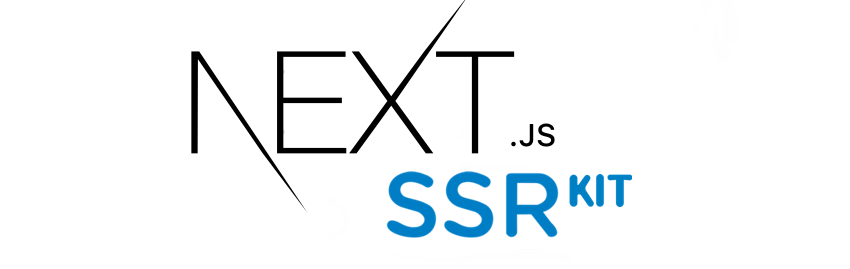
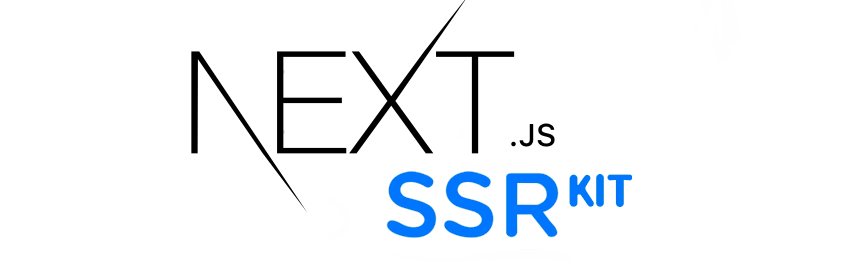
[skip-ci] Adjust button colors

Changed region(s): [[0.4588, 0.6245, 0.7647, 0.8922]]

diff --git a/src/components/Layout/Button/index.tsx b/src/components/Layout/Button/index.tsx
@@ -30,14 +30,14 @@ const Button = styled(StyledButton)`
     return "#ccc";
   }};
   background: ${({ danger, primary }) => {
-    if (primary) return "#03a9f3";
-    if (danger) return "#f0506e";
+    if (primary) return "#0076ff";
+    if (danger) return "#e60f00";
     return "#000";
   }};
   border: 1px solid
     ${({ danger, primary }) => {
-      if (primary) return "#03a9f3";
-      if (danger) return "#f0506e";
+      if (primary) return "#0076ff";
+      if (danger) return "#e60f00";
       return "transparent";
     }};
   font-size: 16px;
@@ -50,8 +50,8 @@ const Button = styled(StyledButton)`
   border-radius: 4px;
   box-shadow: 0 2px 7px 0
     ${({ danger, primary }) => {
-      if (primary) return "rgba(3, 169, 243, 0.39);";
-      if (danger) return "rgba(239, 80, 110, 0.39);";
+      if (primary) return "rgba(3, 77, 243, 0.39);";
+      if (danger) return "rgba(239, 52, 52, 0.39);";
       return "rgba(130, 130, 130, 0.19);";
     }};
 
@@ -59,14 +59,14 @@ const Button = styled(StyledButton)`
     text-decoration: none;
     color: #fff;
     background: ${({ danger, primary }) => {
-      if (primary) return "#028ddf";
-      if (danger) return "#d93252";
+      if (primary) return "#006ae6";
+      if (danger) return "#d71002";
       return "#000";
     }};
     box-shadow: 0 3px 10px 0
       ${({ danger, primary }) => {
-        if (primary) return "rgba(3, 169, 243, 0.39);";
-        if (danger) return "rgba(239, 80, 110, 0.39);";
+        if (primary) return "rgba(3, 77, 243, 0.39);";
+        if (danger) return "rgba(239, 52, 52, 0.39);";
         return "rgba(140, 140, 140, 0.39);";
       }};
   }

diff --git a/src/components/Layout/Modal/index.tsx b/src/components/Layout/Modal/index.tsx
@@ -37,7 +37,7 @@ const Modal = ({
             <ModalContent data-testid="modal-content">
               <Flex
                 data-testid="modal-header"
-                style={{ padding: 15, width: "auto" }}
+                style={{ padding: 15, width: "auto", background: "#0076ff" }}
               >
                 <FlexStart>
                   <ModalTitle data-testid="modal-title">{title}</ModalTitle>

diff --git a/src/pages/index.tsx b/src/pages/index.tsx
@@ -16,7 +16,7 @@ const PageContainer = styled.div`
 `;
 
 const Home: NextPage = () => (
-  <Center data-testid="home-page" style={{ height: "100%", color: "#007ec5" }}>
+  <Center data-testid="home-page" style={{ height: "100%", color: "#0076ff" }}>
     <Header title="Home" url="/" />
     <PageContainer>
       <img

diff --git a/src/pages/_app.tsx b/src/pages/_app.tsx
@@ -26,7 +26,7 @@ const App: FC<AppProps> = ({ Component, pageProps }) => {
       <GlobalStylesheet />
       <ToastContainer
         position="top-right"
-        autoClose={70500}
+        autoClose={7500}
         hideProgressBar={false}
         newestOnTop={false}
         draggable

diff --git a/src/components/Layout/UserListNavigation/index.tsx b/src/components/Layout/UserListNavigation/index.tsx
@@ -47,7 +47,7 @@ export default styled(UserListNavigation)`
   @media (max-width: 800px) {
     ${Flex},${FlexStart}, ${FlexEnd} {
       display: block !important;
-      margin-bottom: 20px;
+      margin-bottom: 10px;
       width: 100% !important;
     }
   }

diff --git a/src/components/Forms/UserForm/index.tsx b/src/components/Forms/UserForm/index.tsx
@@ -14,7 +14,7 @@ import { FormEvent, UserFormProps, UserFormState } from "~types";
 const Form = styled.form`
   margin: 0 auto;
   text-align: left;
-  padding: 5px;
+  padding: 10px;
 `;
 
 const UserForm = (props: UserFormProps): JSX.Element => {

diff --git a/src/components/Layout/Modal/ModalTitle/index.ts b/src/components/Layout/Modal/ModalTitle/index.ts
@@ -3,7 +3,7 @@ import styled from "@emotion/styled";
 const ModalTitle = styled.div`
   padding: 2px;
   font-weight: bold;
-  color: #666;
+  color: #fff;
   font-size: 16px;
 `;
 

diff --git a/src/components/Layout/Modal/CloseModalButton/index.ts b/src/components/Layout/Modal/CloseModalButton/index.ts
@@ -14,7 +14,7 @@ const CloseModalButton = styled.button`
   margin-right: 5px;
 
   &:hover {
-    color: #f5222d;
+    color: #fff;
   }
 
   &:focus {

diff --git a/README.md b/README.md
@@ -1,4 +1,4 @@
-![bnej5es.png](https://i.imgur.com/bnej5es.png)
+![logo.png](https://i.imgur.com/xd1mL6K.png)
 
 <img src="https://img.shields.io/github/package-json/v/mattcarlotta/nextjs-ssr-kit?style=for-the-badge"></img> [![Codecov](https://img.shields.io/codecov/c/github/mattcarlotta/nextjs-ssr-kit?style=for-the-badge)](https://codecov.io/gh/mattcarlotta/nextjs-ssr-kit) [![Open Issues](https://img.shields.io/github/issues-raw/mattcarlotta/nextjs-ssr-kit?style=for-the-badge)](https://github.com/mattcarlotta/nextjs-ssr-kit/issues) [![Dependencies](https://img.shields.io/david/mattcarlotta/nextjs-ssr-kit.svg?style=for-the-badge)](https://david-dm.org/mattcarlotta/nextjs-ssr-kit) [![License](https://img.shields.io/github/license/mattcarlotta/nextjs-ssr-kit?style=for-the-badge)](https://github.com/mattcarlotta/nextjs-ssr-kit/blob/master/LICENSE)
 
